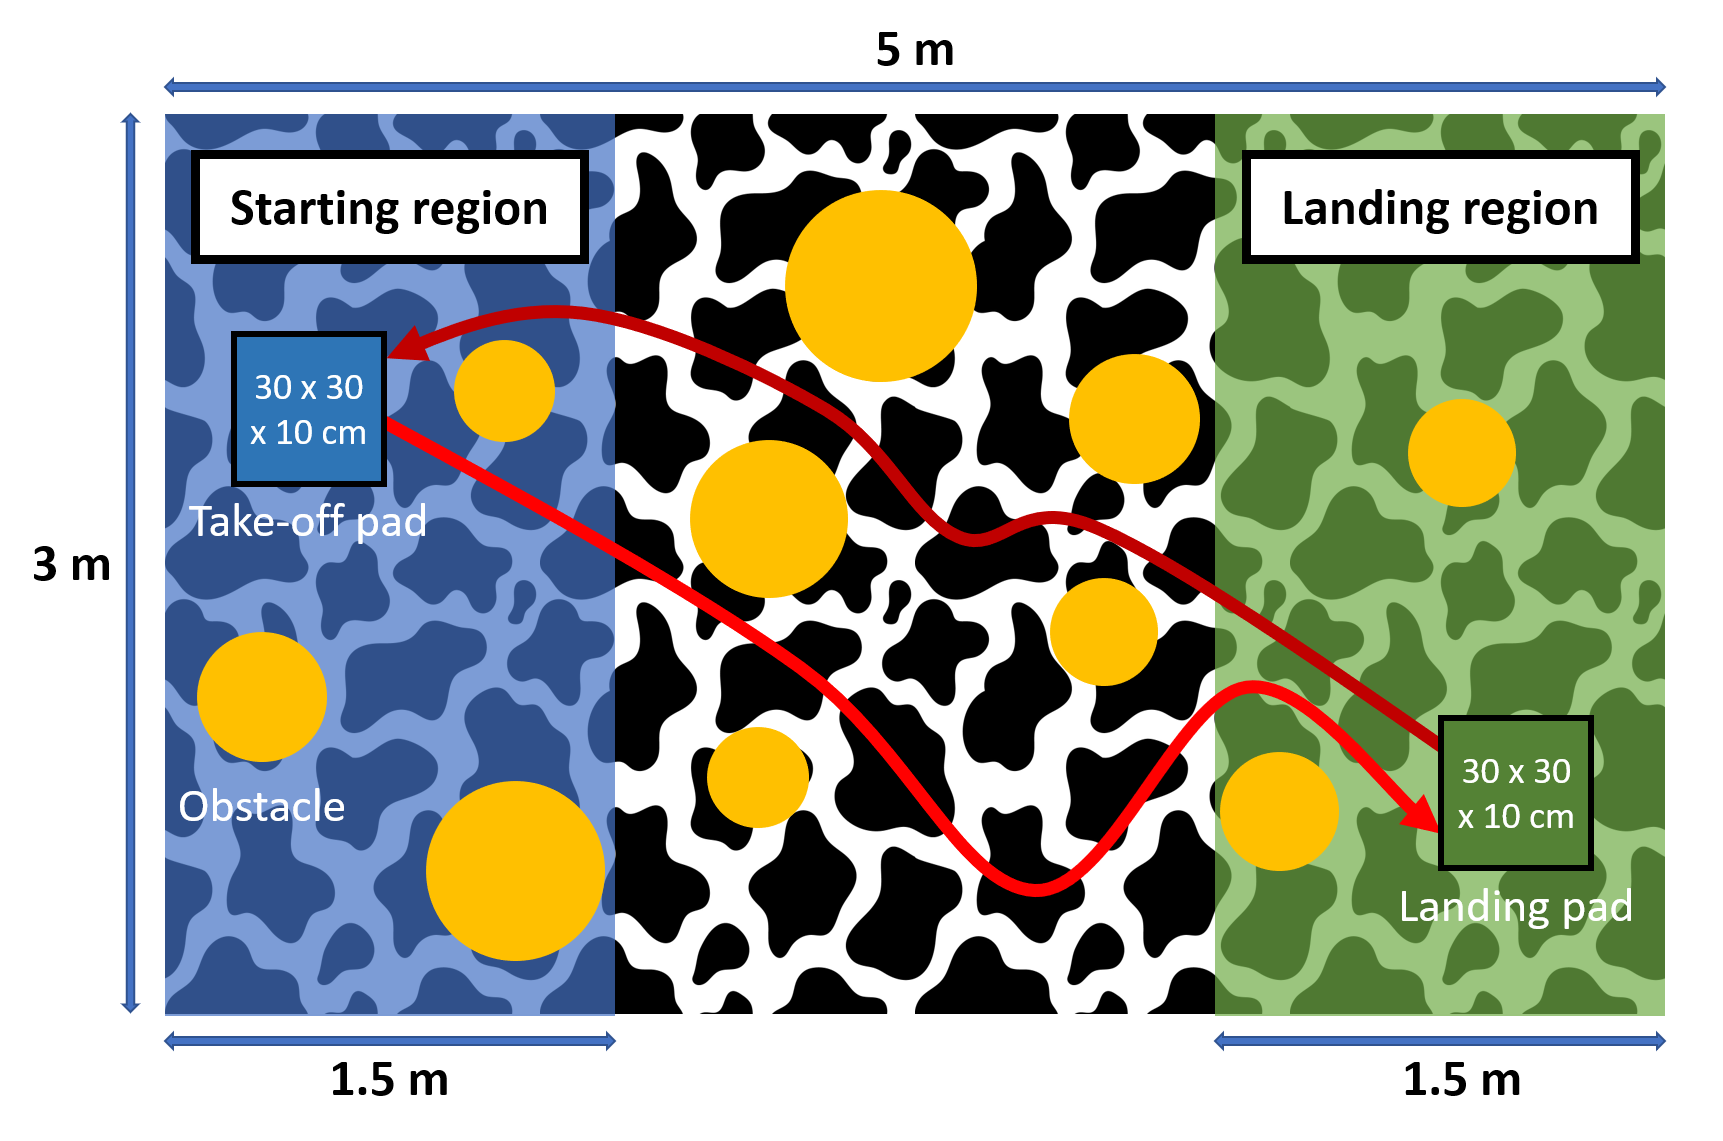
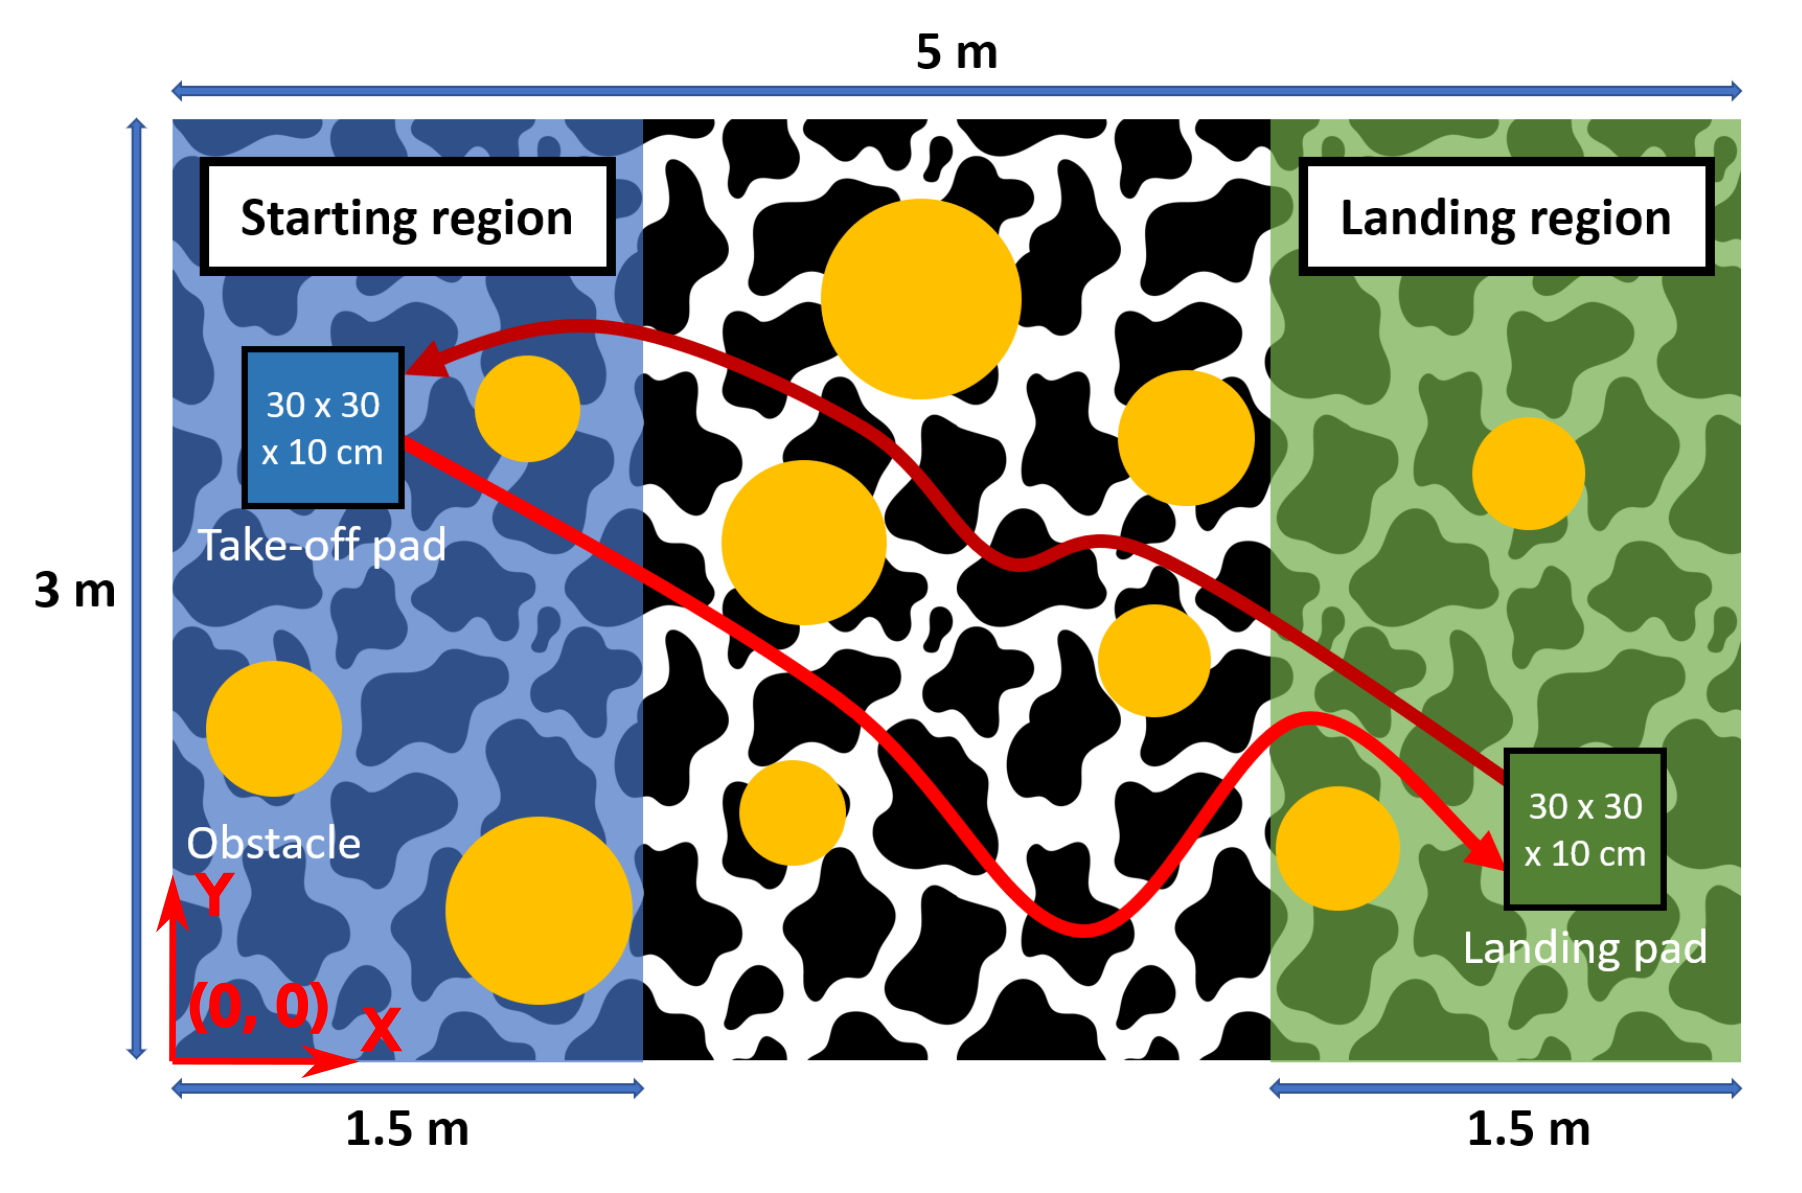
check by Vali

diff --git a/docs/project_description.rst b/docs/project_description.rst
@@ -22,7 +22,7 @@ The arena for the competition is shown in the figure above. The task you are req
 - In the whole arena, there can be a few obstacles of previously unknown dimensions which can be detected with the multiranger deck. Your developed algorithm should allow the drone to avoid any collisions.
 
 Please note that the center position of the take-off pad is randomly assigned but known beforehand.
-The left-down point of the arena serves as the origin, with the positive x direction to the right and the positive y direction upwards.
+In the figure above, the origin is indicated, along with the axes of the X and Y directions.
 
 Here is a real-world test example of this project from last year:
 
@@ -46,7 +46,7 @@ Performance metrics
 - **Grade 4.5**: Find the landing pad and land on it
 - **Grade 5.0**: Take off again and explore again
 - **Grade 5.5**: Find and land on the take-off pad
-- **Grade 5.5 + f(t)**: For students who complete the full task, the grading will be based on the time taken to complete the task. The top 25% of students will receive a grade of f(t)=0.5, the next 25% will receive a grade of f(t)=0.375, the next 25% will receive a grade of f(t)=0.25, and the bottom 25% will receive a grade of f(t)=0.125.
+- **Grade 5.5 + f(t)**: For students who complete the full task, the grading will be based on the time taken to complete the task. The top 25% of students will receive a grade of f(t)=0.5, the next 50% will receive a grade of f(t)=0.25, and the bottom 25% will receive a grade of f(t)=0.
 - **Final_grade = 0.7 * sim_grade + 0.3 * hardware_grade**: Simulation and hardware tasks are graded based on the same metrics as shown above. The final grade is a weighted average of the simulation and hardware grades.
 
 Project schedule
@@ -66,4 +66,4 @@ The following table provides the arrangement of the crazy-practical project.
 | Week 14, May 30           | Hardware demonstrations, hand in the drones
 ==========================  =======================================================
 
-For more details on the task, submission, schedule and grading, please refer to the `moodle <https://moodle.epfl.ch/course/view.php?id=15799>`_ page of the course.
+Any questions about the task, submission, schedule and grading, please contact Shushuai Li (shushuai.li@epfl.ch).

diff --git a/docs/simulation_quickstart.rst b/docs/simulation_quickstart.rst
@@ -44,7 +44,7 @@ The simulation starts with the `main.py <https://github.com/dronecourse-epfl/cra
 
 To run your algorithm instead of the keyboard control, you can comment 'control_commands = drone.action_from_keyboard()' and uncomment 'control_commands = my_controller(sensor_data)' in the 'main.py' file.
 
-All you need to do is to create your algorithms in the 'my_control.py' file which you should submit for getting simulation grades.
+All you need to do is to create your algorithms in the 'my_control.py' file which you should submit for getting simulation grades. Details on how to submit can be found in the section “Leaderboard”.
 
 To test your method with random positions of both the pads and obstacles, set 'enable_random_environment = True' in the main.py file.
 
